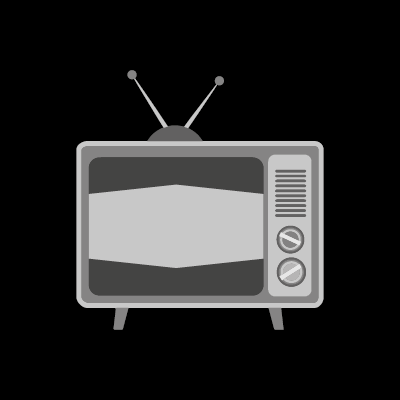
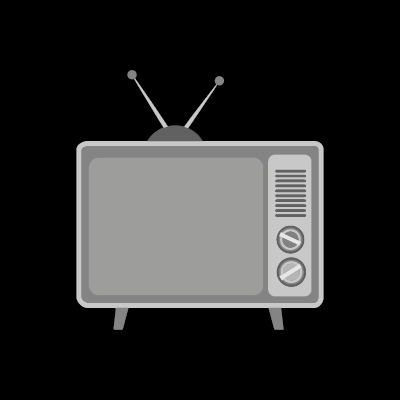
-

Changed region(s): [[0.21, 0.39, 0.66, 0.75]]

diff --git a/Esercizio_1A/acceso_spento_2.html b/Esercizio_1A/acceso_spento_2.html
@@ -31,7 +31,7 @@
 			to           	 : "img/acceso_spento_2/2.png",
 			playMode     	 : "auto",
 			loop         	 : "loop", // "pong"
-			interval     	 : 1000,
+			interval     	 : 500,
 		})
 	</script>
 </body>
